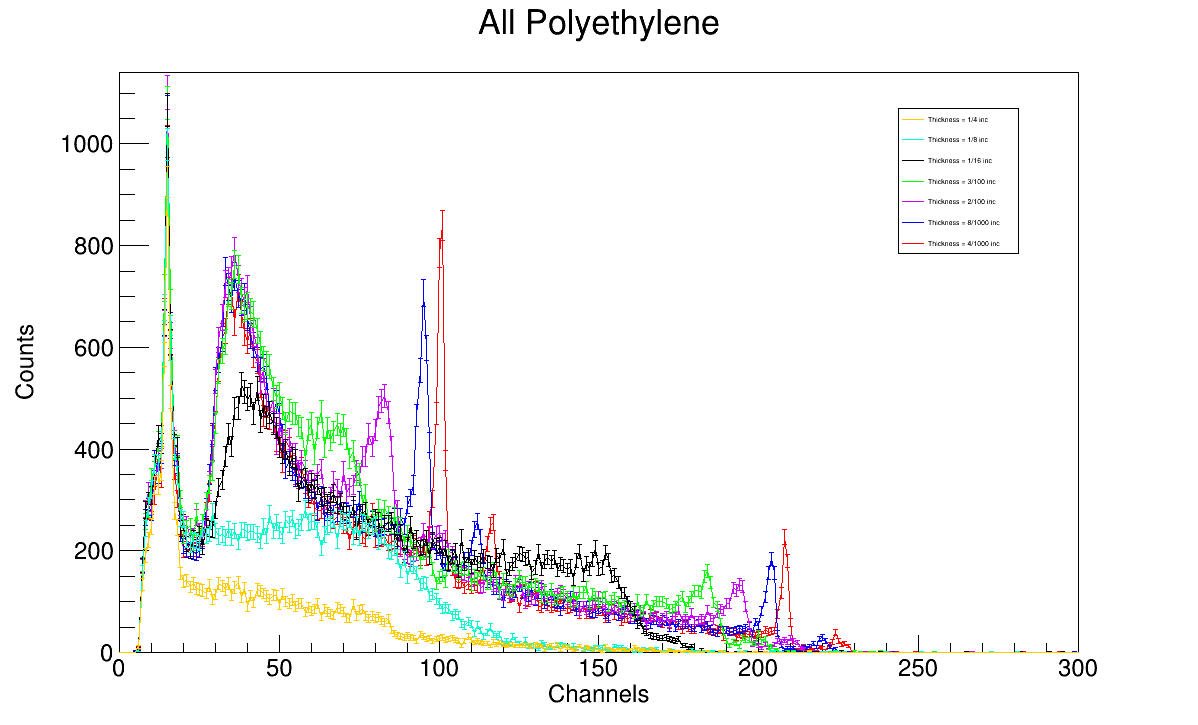
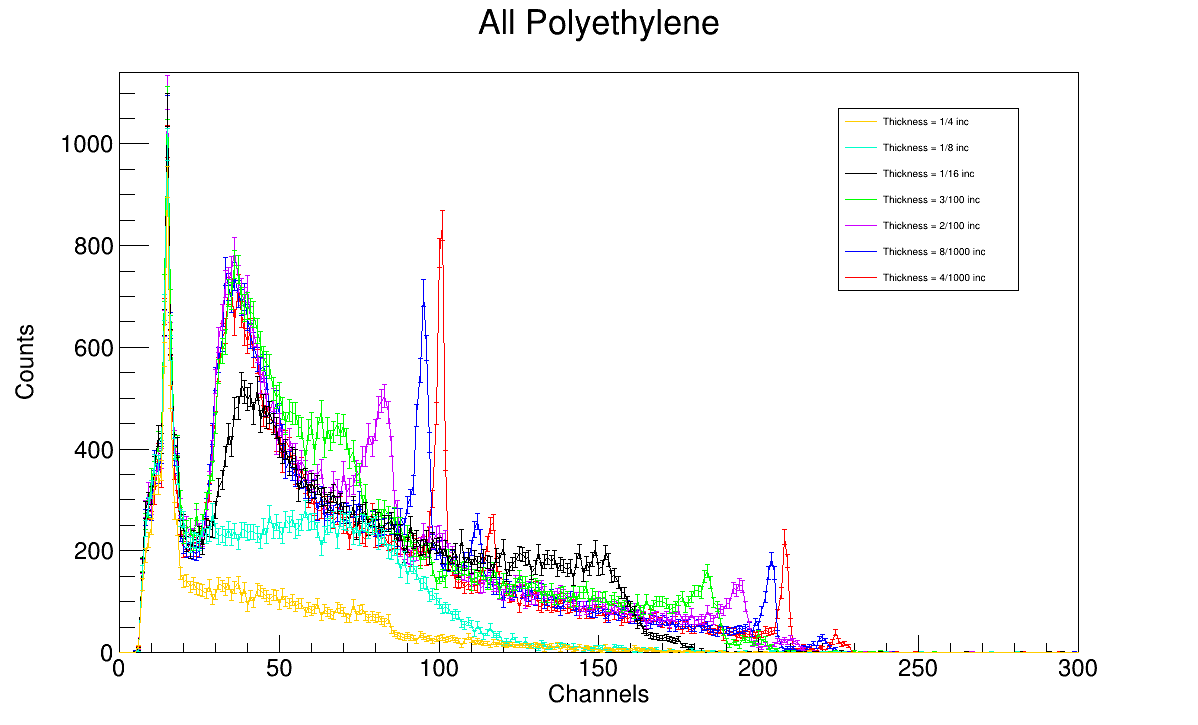
Poliethylene.cpp

Changed region(s): [[0.7412, 0.1517, 0.8339, 0.3945]]

diff --git a/Beta/main/Polyethylene.cpp b/Beta/main/Polyethylene.cpp
@@ -159,7 +159,7 @@ int main(){
     plot7.SetLineColor(kOrange);
     plot7.Draw("same PL");
 
-    TLegend leg(0.75, 0.65, 0.85, .85);
+    TLegend leg(0.7, 0.6, 0.85, .85);
     leg.AddEntry(&plot7, "Thickness = 1/4 inc", "l");
     leg.AddEntry(&plot6, "Thickness = 1/8 inc", "l");
     leg.AddEntry(&plot5, "Thickness = 1/16 inc", "l");
@@ -195,7 +195,7 @@ int main(){
     plotmm.Draw("APC");
 
     c1.Update();
-    c1.SaveAs("graphs/Counts_Thickness.png");
+    c1.SaveAs("graphs/Counts_Thickness_mm.png");
     c1.WaitPrimitive();
     gSystem->ProcessEvents();
     
@@ -204,14 +204,14 @@ int main(){
     plotmgcm2.SetMarkerColor(kRed);
     plotmgcm2.SetLineColor(kRed);
     plotmgcm2.SetTitle("Counts relation with thickness");
-    plotmgcm2.GetXaxis()->SetTitle("Thickness [mm]");
+    plotmgcm2.GetXaxis()->SetTitle("Thickness [mg/cm^{2}]");
     plotmgcm2.GetYaxis()->SetTitle("Counts");
     plotmgcm2.GetXaxis()->CenterTitle();
     plotmgcm2.GetYaxis()->CenterTitle();
     plotmgcm2.GetXaxis()->SetRangeUser(0, 620);
     plotmgcm2.Draw("APC");
     c1.Update();
-    c1.SaveAs("graphs/Counts_Thickness_mg/cm{2}.png");
+    c1.SaveAs("graphs/Counts_Thickness_mgcm2.png");
     c1.WaitPrimitive();
     gSystem->ProcessEvents();
 }
